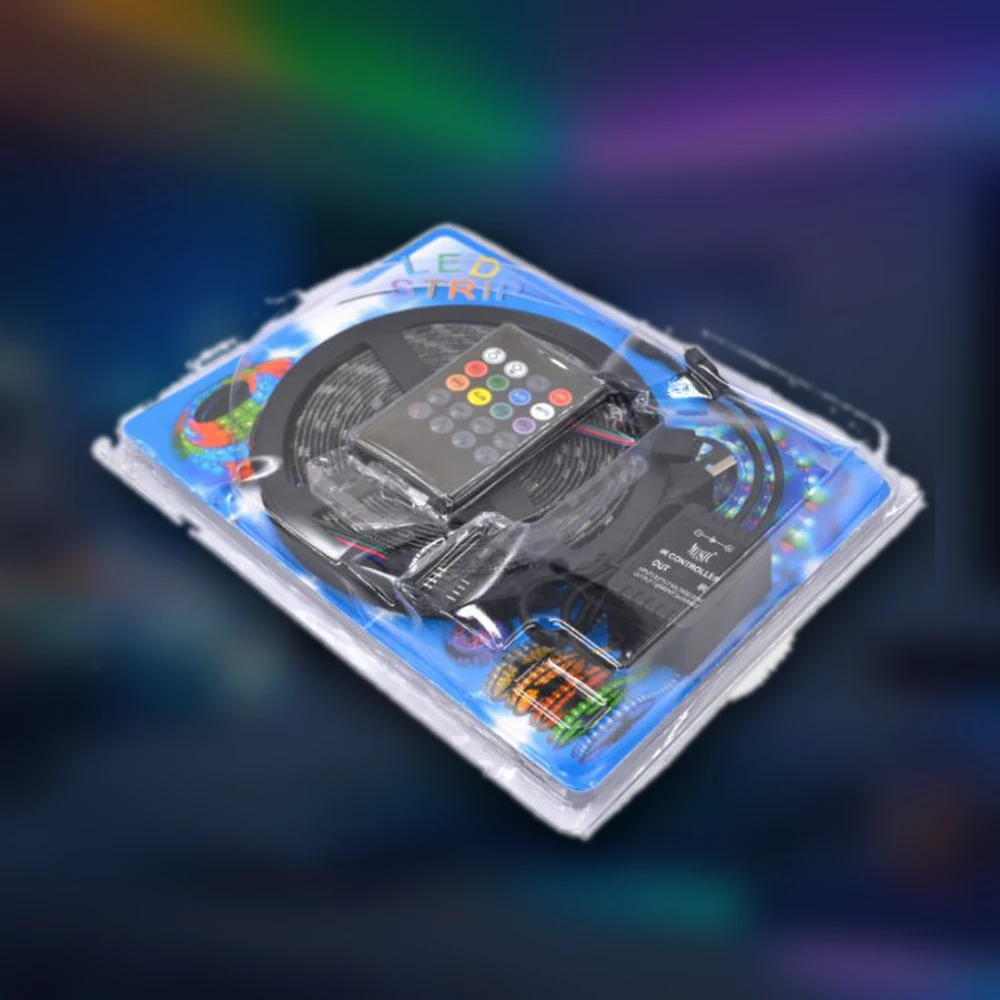
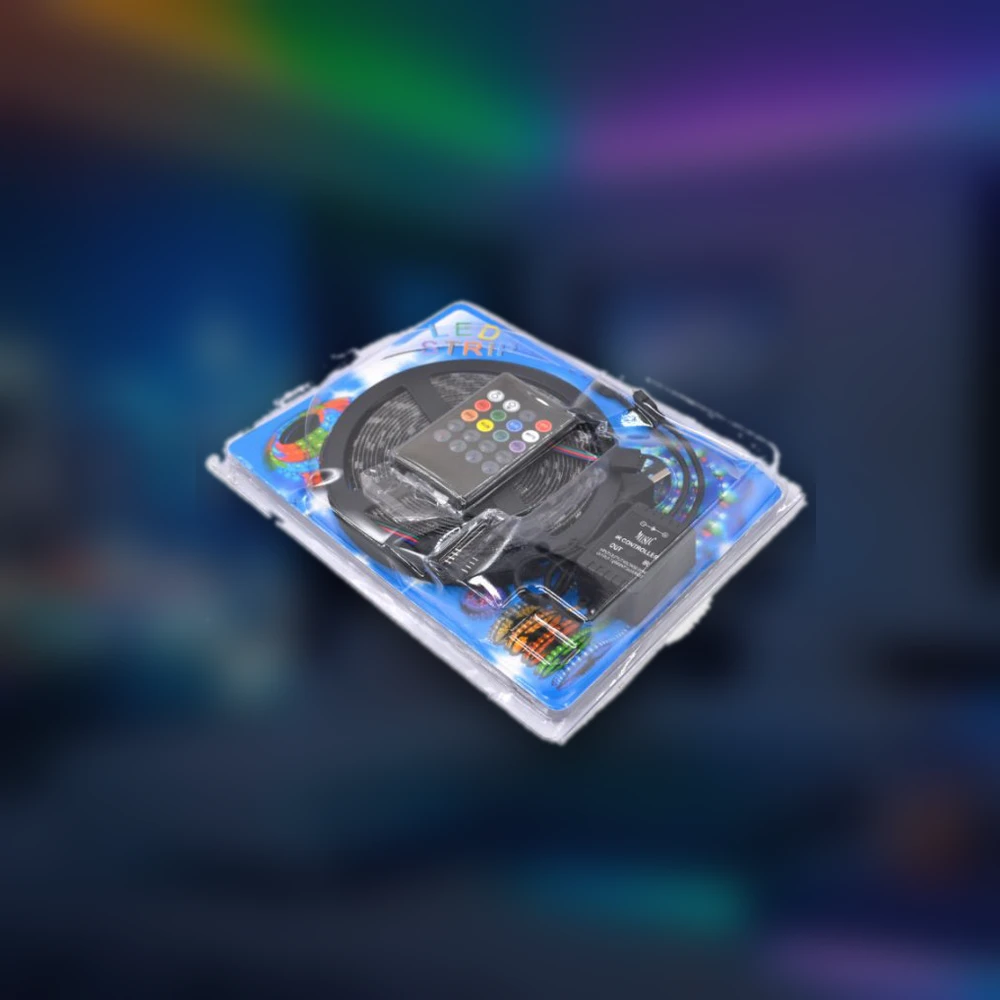
Зменшено масштаб та оптимізовано фото світлодіодної стрічки: акуратне центроване розміщення, видалено надлишковий зум scale, піднято кеш v28

Changed region(s): [[0.093, 0.217, 0.93, 0.868]]

diff --git a/products/svitlodiodna-strichka-smd-5050-rgb-5m/index.html b/products/svitlodiodna-strichka-smd-5050-rgb-5m/index.html
@@ -57,13 +57,13 @@
   <link href="https://fonts.googleapis.com/css2?family=Inter:wght@400;500;600;700&family=Montserrat:wght@600;700;800&display=swap" rel="stylesheet">
 
   <!-- Стилі та скрипти -->
-  <link rel="stylesheet" href="/assets/tw.css?v=hn20261017-v27">
-  <script src="/assets/products.js?v=hn20261017-v27"></script>
-  <script src="/assets/shop.js?v=hn20261017-v27"></script>
-  <script src="/assets/icons.js?v=hn20261017-v27" defer></script>
-  <script src="/assets/cart.js?v=hn20261017-v27" defer></script>
+  <link rel="stylesheet" href="/assets/tw.css?v=hn20261017-v28">
+  <script src="/assets/products.js?v=hn20261017-v28"></script>
+  <script src="/assets/shop.js?v=hn20261017-v28"></script>
+  <script src="/assets/icons.js?v=hn20261017-v28" defer></script>
+  <script src="/assets/cart.js?v=hn20261017-v28" defer></script>
 
-  <link rel="stylesheet" href="/assets/site.css?v=hn20261017-v27">
+  <link rel="stylesheet" href="/assets/site.css?v=hn20261017-v28">
   <link rel="icon" type="image/png" href="/assets/img/favicon.png">
   <link rel="apple-touch-icon" href="/assets/img/favicon.png">
 </head>
@@ -196,11 +196,11 @@
             <span class="bg-buy-600 text-white text-xs font-bold px-3 py-1 rounded-full shadow">💧 Вологозахист IP65</span>
           </div>
           <span class="absolute top-3 right-3 z-10 bg-graphite text-white font-display font-extrabold text-lg px-3 py-1 rounded-xl">-36%</span>
-          <div class="relative z-[1] w-full max-w-md mx-auto rounded-3xl shadow-xl aspect-square overflow-hidden bg-slate-900">
+          <div class="relative z-[1] w-full max-w-sm sm:max-w-md mx-auto rounded-3xl shadow-xl aspect-square overflow-hidden bg-slate-100">
             <img src="/assets/img/led-strip-1.webp"
                  alt="Світлодіодна стрічка SMD 5050 RGB LED 5 м (IP65) з пультом та блоком живлення" width="1000" height="1000"
                  fetchpriority="high"
-                 class="w-full h-full object-cover scale-[1.06]">
+                 class="w-full h-full object-cover">
           </div>
         </div>
 
@@ -561,7 +561,7 @@
     ['/assets/img/led-strip-1.webp', 'Повний комплект: стрічка 5050 RGB на котушці, пульт ДК, контролер та блок живлення'],
     ['/assets/img/led-strip-2.webp', 'Затишне преміальне підсвічування стельової ніші та мʼяких меблів у вітальні'],
     ['/assets/img/led-strip-3.webp', 'Яскраве райдужне сяйво тричіпових світлодіодів SMD 5050 на котушці'],
-    ['/assets/img/led-strip-4.webp', 'Фонова контрастна RGB-підсвітка телевізора для комфортного кіноперегляду'],
+    ['/assets/img/led-strip-4.webp', 'Приклади підсвічування інтерʼєру: вітальня, спальня, ніша та TV-зона'],
     ['/assets/img/led-strip-5.webp', 'Фірмова блістерна заводська упаковка комплекту світлодіодної стрічки']
   ];
 
@@ -625,10 +625,10 @@
   // Слайдер фотографій
   const slider = $('#slider'), dots = $('#dots');
   slider.innerHTML = GALLERY.map(([src, caption], i) => `
-    <div class="shrink-0 w-72 sm:w-80 md:w-96 rounded-2xl overflow-hidden bg-white shadow-md border border-slate-100">
-      <div class="aspect-square overflow-hidden bg-slate-900"><img src="${src}" alt="${caption}" width="1000" height="1000" loading="lazy" class="w-full h-full object-cover scale-[1.06]"></div>
-      <p class="p-3 text-xs text-slate-500 text-center">${caption}</p>
-    </div>
+    <figure class="shrink-0 rounded-2xl overflow-hidden bg-white shadow-md border border-slate-100">
+      <div class="aspect-square overflow-hidden bg-slate-100"><img src="${src}" alt="${caption}" width="1000" height="1000" loading="lazy" class="w-full h-full object-cover"></div>
+      <figcaption class="p-3 text-xs text-slate-500 text-center font-medium">${caption}</figcaption>
+    </figure>
   `).join('');
 
   dots.innerHTML = GALLERY.map((_, i) => `

diff --git a/index.html b/index.html
@@ -71,15 +71,15 @@
   <link href="https://fonts.googleapis.com/css2?family=Inter:wght@400;500;600;700&family=Montserrat:wght@600;700;800&display=swap" rel="stylesheet">
 
   <!-- Стилі та скрипти з оновленою версією кешування -->
-  <link rel="stylesheet" href="/assets/tw.css?v=hn20261017-v27">
+  <link rel="stylesheet" href="/assets/tw.css?v=hn20261017-v28">
 
   <!-- Іконки Lucide -->
-  <script src="/assets/products.js?v=hn20261017-v27"></script>
-  <script src="/assets/shop.js?v=hn20261017-v27"></script>
-  <script src="/assets/icons.js?v=hn20261017-v27" defer></script>
-  <script src="/assets/cart.js?v=hn20261017-v27" defer></script>
+  <script src="/assets/products.js?v=hn20261017-v28"></script>
+  <script src="/assets/shop.js?v=hn20261017-v28"></script>
+  <script src="/assets/icons.js?v=hn20261017-v28" defer></script>
+  <script src="/assets/cart.js?v=hn20261017-v28" defer></script>
 
-  <link rel="stylesheet" href="/assets/site.css?v=hn20261017-v27">
+  <link rel="stylesheet" href="/assets/site.css?v=hn20261017-v28">
   <link rel="icon" type="image/png" href="/assets/img/favicon.png">
   <link rel="apple-touch-icon" href="/assets/img/favicon.png">
 </head>

diff --git a/products/nichnik-proyektor-astronavt-bluetooth/index.html b/products/nichnik-proyektor-astronavt-bluetooth/index.html
@@ -59,15 +59,15 @@
   <link href="https://fonts.googleapis.com/css2?family=Inter:wght@400;500;600;700&family=Montserrat:wght@600;700;800&display=swap" rel="stylesheet">
 
   <!-- Стилі та скрипти з оновленою версією кешування -->
-  <link rel="stylesheet" href="/assets/tw.css?v=hn20261017-v27">
+  <link rel="stylesheet" href="/assets/tw.css?v=hn20261017-v28">
 
   <!-- Іконки Lucide -->
-  <script src="/assets/products.js?v=hn20261017-v27"></script>
-  <script src="/assets/shop.js?v=hn20261017-v27"></script>
-  <script src="/assets/icons.js?v=hn20261017-v27" defer></script>
-  <script src="/assets/cart.js?v=hn20261017-v27" defer></script>
+  <script src="/assets/products.js?v=hn20261017-v28"></script>
+  <script src="/assets/shop.js?v=hn20261017-v28"></script>
+  <script src="/assets/icons.js?v=hn20261017-v28" defer></script>
+  <script src="/assets/cart.js?v=hn20261017-v28" defer></script>
 
-  <link rel="stylesheet" href="/assets/site.css?v=hn20261017-v27">
+  <link rel="stylesheet" href="/assets/site.css?v=hn20261017-v28">
   <link rel="icon" type="image/png" href="/assets/img/favicon.png">
   <link rel="apple-touch-icon" href="/assets/img/favicon.png">
 </head>

diff --git a/products/atmosfernyy-nichnyk-meduza-akumulyatornyy/index.html b/products/atmosfernyy-nichnyk-meduza-akumulyatornyy/index.html
@@ -57,13 +57,13 @@
   <link href="https://fonts.googleapis.com/css2?family=Inter:wght@400;500;600;700&family=Montserrat:wght@600;700;800&display=swap" rel="stylesheet">
 
   <!-- Стилі та скрипти -->
-  <link rel="stylesheet" href="/assets/tw.css?v=hn20261017-v27">
-  <script src="/assets/products.js?v=hn20261017-v27"></script>
-  <script src="/assets/shop.js?v=hn20261017-v27"></script>
-  <script src="/assets/icons.js?v=hn20261017-v27" defer></script>
-  <script src="/assets/cart.js?v=hn20261017-v27" defer></script>
+  <link rel="stylesheet" href="/assets/tw.css?v=hn20261017-v28">
+  <script src="/assets/products.js?v=hn20261017-v28"></script>
+  <script src="/assets/shop.js?v=hn20261017-v28"></script>
+  <script src="/assets/icons.js?v=hn20261017-v28" defer></script>
+  <script src="/assets/cart.js?v=hn20261017-v28" defer></script>
 
-  <link rel="stylesheet" href="/assets/site.css?v=hn20261017-v27">
+  <link rel="stylesheet" href="/assets/site.css?v=hn20261017-v28">
   <link rel="icon" type="image/png" href="/assets/img/favicon.png">
   <link rel="apple-touch-icon" href="/assets/img/favicon.png">
 </head>

diff --git a/products/bezdrotovyy-dvernyy-wifi-videodzvinok-z-kameroyu/index.html b/products/bezdrotovyy-dvernyy-wifi-videodzvinok-z-kameroyu/index.html
@@ -57,13 +57,13 @@
   <link href="https://fonts.googleapis.com/css2?family=Inter:wght@400;500;600;700&family=Montserrat:wght@600;700;800&display=swap" rel="stylesheet">
 
   <!-- Стилі та скрипти -->
-  <link rel="stylesheet" href="/assets/tw.css?v=hn20261017-v27">
-  <script src="/assets/products.js?v=hn20261017-v27"></script>
-  <script src="/assets/shop.js?v=hn20261017-v27"></script>
-  <script src="/assets/icons.js?v=hn20261017-v27" defer></script>
-  <script src="/assets/cart.js?v=hn20261017-v27" defer></script>
+  <link rel="stylesheet" href="/assets/tw.css?v=hn20261017-v28">
+  <script src="/assets/products.js?v=hn20261017-v28"></script>
+  <script src="/assets/shop.js?v=hn20261017-v28"></script>
+  <script src="/assets/icons.js?v=hn20261017-v28" defer></script>
+  <script src="/assets/cart.js?v=hn20261017-v28" defer></script>
 
-  <link rel="stylesheet" href="/assets/site.css?v=hn20261017-v27">
+  <link rel="stylesheet" href="/assets/site.css?v=hn20261017-v28">
   <link rel="icon" type="image/png" href="/assets/img/favicon.png">
   <link rel="apple-touch-icon" href="/assets/img/favicon.png">
 </head>

diff --git a/products/chashka-keramichna-na-pidstavtsi-z-pidihrivom/index.html b/products/chashka-keramichna-na-pidstavtsi-z-pidihrivom/index.html
@@ -58,13 +58,13 @@
   <link href="https://fonts.googleapis.com/css2?family=Inter:wght@400;500;600;700&family=Montserrat:wght@600;700;800&display=swap" rel="stylesheet">
 
   <!-- Стилі та скрипти -->
-  <link rel="stylesheet" href="/assets/tw.css?v=hn20261017-v27">
-  <script src="/assets/products.js?v=hn20261017-v27"></script>
-  <script src="/assets/shop.js?v=hn20261017-v27"></script>
-  <script src="/assets/icons.js?v=hn20261017-v27" defer></script>
-  <script src="/assets/cart.js?v=hn20261017-v27" defer></script>
+  <link rel="stylesheet" href="/assets/tw.css?v=hn20261017-v28">
+  <script src="/assets/products.js?v=hn20261017-v28"></script>
+  <script src="/assets/shop.js?v=hn20261017-v28"></script>
+  <script src="/assets/icons.js?v=hn20261017-v28" defer></script>
+  <script src="/assets/cart.js?v=hn20261017-v28" defer></script>
 
-  <link rel="stylesheet" href="/assets/site.css?v=hn20261017-v27">
+  <link rel="stylesheet" href="/assets/site.css?v=hn20261017-v28">
   <link rel="icon" type="image/png" href="/assets/img/favicon.png">
   <link rel="apple-touch-icon" href="/assets/img/favicon.png">
 </head>

diff --git a/products/dekorativniy-kamin-kar300-280-197-mm-chorniy/index.html b/products/dekorativniy-kamin-kar300-280-197-mm-chorniy/index.html
@@ -58,13 +58,13 @@
   <link href="https://fonts.googleapis.com/css2?family=Inter:wght@400;500;600;700&family=Montserrat:wght@600;700;800&display=swap" rel="stylesheet">
 
   <!-- Стилі та скрипти -->
-  <link rel="stylesheet" href="/assets/tw.css?v=hn20261017-v27">
-  <script src="/assets/products.js?v=hn20261017-v27"></script>
-  <script src="/assets/shop.js?v=hn20261017-v27"></script>
-  <script src="/assets/icons.js?v=hn20261017-v27" defer></script>
-  <script src="/assets/cart.js?v=hn20261017-v27" defer></script>
+  <link rel="stylesheet" href="/assets/tw.css?v=hn20261017-v28">
+  <script src="/assets/products.js?v=hn20261017-v28"></script>
+  <script src="/assets/shop.js?v=hn20261017-v28"></script>
+  <script src="/assets/icons.js?v=hn20261017-v28" defer></script>
+  <script src="/assets/cart.js?v=hn20261017-v28" defer></script>
 
-  <link rel="stylesheet" href="/assets/site.css?v=hn20261017-v27">
+  <link rel="stylesheet" href="/assets/site.css?v=hn20261017-v28">
   <link rel="icon" type="image/png" href="/assets/img/favicon.png">
   <link rel="apple-touch-icon" href="/assets/img/favicon.png">
 </head>

diff --git a/products/dispenser-dlya-kharchovoyi-plivki-ta-folgi-26x-409/index.html b/products/dispenser-dlya-kharchovoyi-plivki-ta-folgi-26x-409/index.html
@@ -58,13 +58,13 @@
   <link href="https://fonts.googleapis.com/css2?family=Inter:wght@400;500;600;700&family=Montserrat:wght@600;700;800&display=swap" rel="stylesheet">
 
   <!-- Стилі та скрипти -->
-  <link rel="stylesheet" href="/assets/tw.css?v=hn20261017-v27">
-  <script src="/assets/products.js?v=hn20261017-v27"></script>
-  <script src="/assets/shop.js?v=hn20261017-v27"></script>
-  <script src="/assets/icons.js?v=hn20261017-v27" defer></script>
-  <script src="/assets/cart.js?v=hn20261017-v27" defer></script>
+  <link rel="stylesheet" href="/assets/tw.css?v=hn20261017-v28">
+  <script src="/assets/products.js?v=hn20261017-v28"></script>
+  <script src="/assets/shop.js?v=hn20261017-v28"></script>
+  <script src="/assets/icons.js?v=hn20261017-v28" defer></script>
+  <script src="/assets/cart.js?v=hn20261017-v28" defer></script>
 
-  <link rel="stylesheet" href="/assets/site.css?v=hn20261017-v27">
+  <link rel="stylesheet" href="/assets/site.css?v=hn20261017-v28">
   <link rel="icon" type="image/png" href="/assets/img/favicon.png">
   <link rel="apple-touch-icon" href="/assets/img/favicon.png">
 </head>

diff --git a/products/fotopanno-kar296-125-sm-z-prishchipkami/index.html b/products/fotopanno-kar296-125-sm-z-prishchipkami/index.html
@@ -58,13 +58,13 @@
   <link href="https://fonts.googleapis.com/css2?family=Inter:wght@400;500;600;700&family=Montserrat:wght@600;700;800&display=swap" rel="stylesheet">
 
   <!-- Стилі та скрипти -->
-  <link rel="stylesheet" href="/assets/tw.css?v=hn20261017-v27">
-  <script src="/assets/products.js?v=hn20261017-v27"></script>
-  <script src="/assets/shop.js?v=hn20261017-v27"></script>
-  <script src="/assets/icons.js?v=hn20261017-v27" defer></script>
-  <script src="/assets/cart.js?v=hn20261017-v27" defer></script>
+  <link rel="stylesheet" href="/assets/tw.css?v=hn20261017-v28">
+  <script src="/assets/products.js?v=hn20261017-v28"></script>
+  <script src="/assets/shop.js?v=hn20261017-v28"></script>
+  <script src="/assets/icons.js?v=hn20261017-v28" defer></script>
+  <script src="/assets/cart.js?v=hn20261017-v28" defer></script>
 
-  <link rel="stylesheet" href="/assets/site.css?v=hn20261017-v27">
+  <link rel="stylesheet" href="/assets/site.css?v=hn20261017-v28">
   <link rel="icon" type="image/png" href="/assets/img/favicon.png">
   <link rel="apple-touch-icon" href="/assets/img/favicon.png">
 </head>

diff --git a/products/girlyanda-v-metalevykh-kulkakh-teplyy-bilyy-2m/index.html b/products/girlyanda-v-metalevykh-kulkakh-teplyy-bilyy-2m/index.html
@@ -57,13 +57,13 @@
   <link href="https://fonts.googleapis.com/css2?family=Inter:wght@400;500;600;700&family=Montserrat:wght@600;700;800&display=swap" rel="stylesheet">
 
   <!-- Стилі та скрипти -->
-  <link rel="stylesheet" href="/assets/tw.css?v=hn20261017-v27">
-  <script src="/assets/products.js?v=hn20261017-v27"></script>
-  <script src="/assets/shop.js?v=hn20261017-v27"></script>
-  <script src="/assets/icons.js?v=hn20261017-v27" defer></script>
-  <script src="/assets/cart.js?v=hn20261017-v27" defer></script>
+  <link rel="stylesheet" href="/assets/tw.css?v=hn20261017-v28">
+  <script src="/assets/products.js?v=hn20261017-v28"></script>
+  <script src="/assets/shop.js?v=hn20261017-v28"></script>
+  <script src="/assets/icons.js?v=hn20261017-v28" defer></script>
+  <script src="/assets/cart.js?v=hn20261017-v28" defer></script>
 
-  <link rel="stylesheet" href="/assets/site.css?v=hn20261017-v27">
+  <link rel="stylesheet" href="/assets/site.css?v=hn20261017-v28">
   <link rel="icon" type="image/png" href="/assets/img/favicon.png">
   <link rel="apple-touch-icon" href="/assets/img/favicon.png">
 </head>

diff --git a/products/girlyanda-z-prishchipkami-lu999-4-5m/index.html b/products/girlyanda-z-prishchipkami-lu999-4-5m/index.html
@@ -58,13 +58,13 @@
   <link href="https://fonts.googleapis.com/css2?family=Inter:wght@400;500;600;700&family=Montserrat:wght@600;700;800&display=swap" rel="stylesheet">
 
   <!-- Стилі та скрипти -->
-  <link rel="stylesheet" href="/assets/tw.css?v=hn20261017-v27">
-  <script src="/assets/products.js?v=hn20261017-v27"></script>
-  <script src="/assets/shop.js?v=hn20261017-v27"></script>
-  <script src="/assets/icons.js?v=hn20261017-v27" defer></script>
-  <script src="/assets/cart.js?v=hn20261017-v27" defer></script>
+  <link rel="stylesheet" href="/assets/tw.css?v=hn20261017-v28">
+  <script src="/assets/products.js?v=hn20261017-v28"></script>
+  <script src="/assets/shop.js?v=hn20261017-v28"></script>
+  <script src="/assets/icons.js?v=hn20261017-v28" defer></script>
+  <script src="/assets/cart.js?v=hn20261017-v28" defer></script>
 
-  <link rel="stylesheet" href="/assets/site.css?v=hn20261017-v27">
+  <link rel="stylesheet" href="/assets/site.css?v=hn20261017-v28">
   <link rel="icon" type="image/png" href="/assets/img/favicon.png">
   <link rel="apple-touch-icon" href="/assets/img/favicon.png">
 </head>

diff --git a/products/litayuchyy-shar-spinner-flynova-pro/index.html b/products/litayuchyy-shar-spinner-flynova-pro/index.html
@@ -57,13 +57,13 @@
   <link href="https://fonts.googleapis.com/css2?family=Inter:wght@400;500;600;700&family=Montserrat:wght@600;700;800&display=swap" rel="stylesheet">
 
   <!-- Стилі та скрипти -->
-  <link rel="stylesheet" href="/assets/tw.css?v=hn20261017-v27">
-  <script src="/assets/products.js?v=hn20261017-v27"></script>
-  <script src="/assets/shop.js?v=hn20261017-v27"></script>
-  <script src="/assets/icons.js?v=hn20261017-v27" defer></script>
-  <script src="/assets/cart.js?v=hn20261017-v27" defer></script>
+  <link rel="stylesheet" href="/assets/tw.css?v=hn20261017-v28">
+  <script src="/assets/products.js?v=hn20261017-v28"></script>
+  <script src="/assets/shop.js?v=hn20261017-v28"></script>
+  <script src="/assets/icons.js?v=hn20261017-v28" defer></script>
+  <script src="/assets/cart.js?v=hn20261017-v28" defer></script>
 
-  <link rel="stylesheet" href="/assets/site.css?v=hn20261017-v27">
+  <link rel="stylesheet" href="/assets/site.css?v=hn20261017-v28">
   <link rel="icon" type="image/png" href="/assets/img/favicon.png">
   <link rel="apple-touch-icon" href="/assets/img/favicon.png">
 </head>
